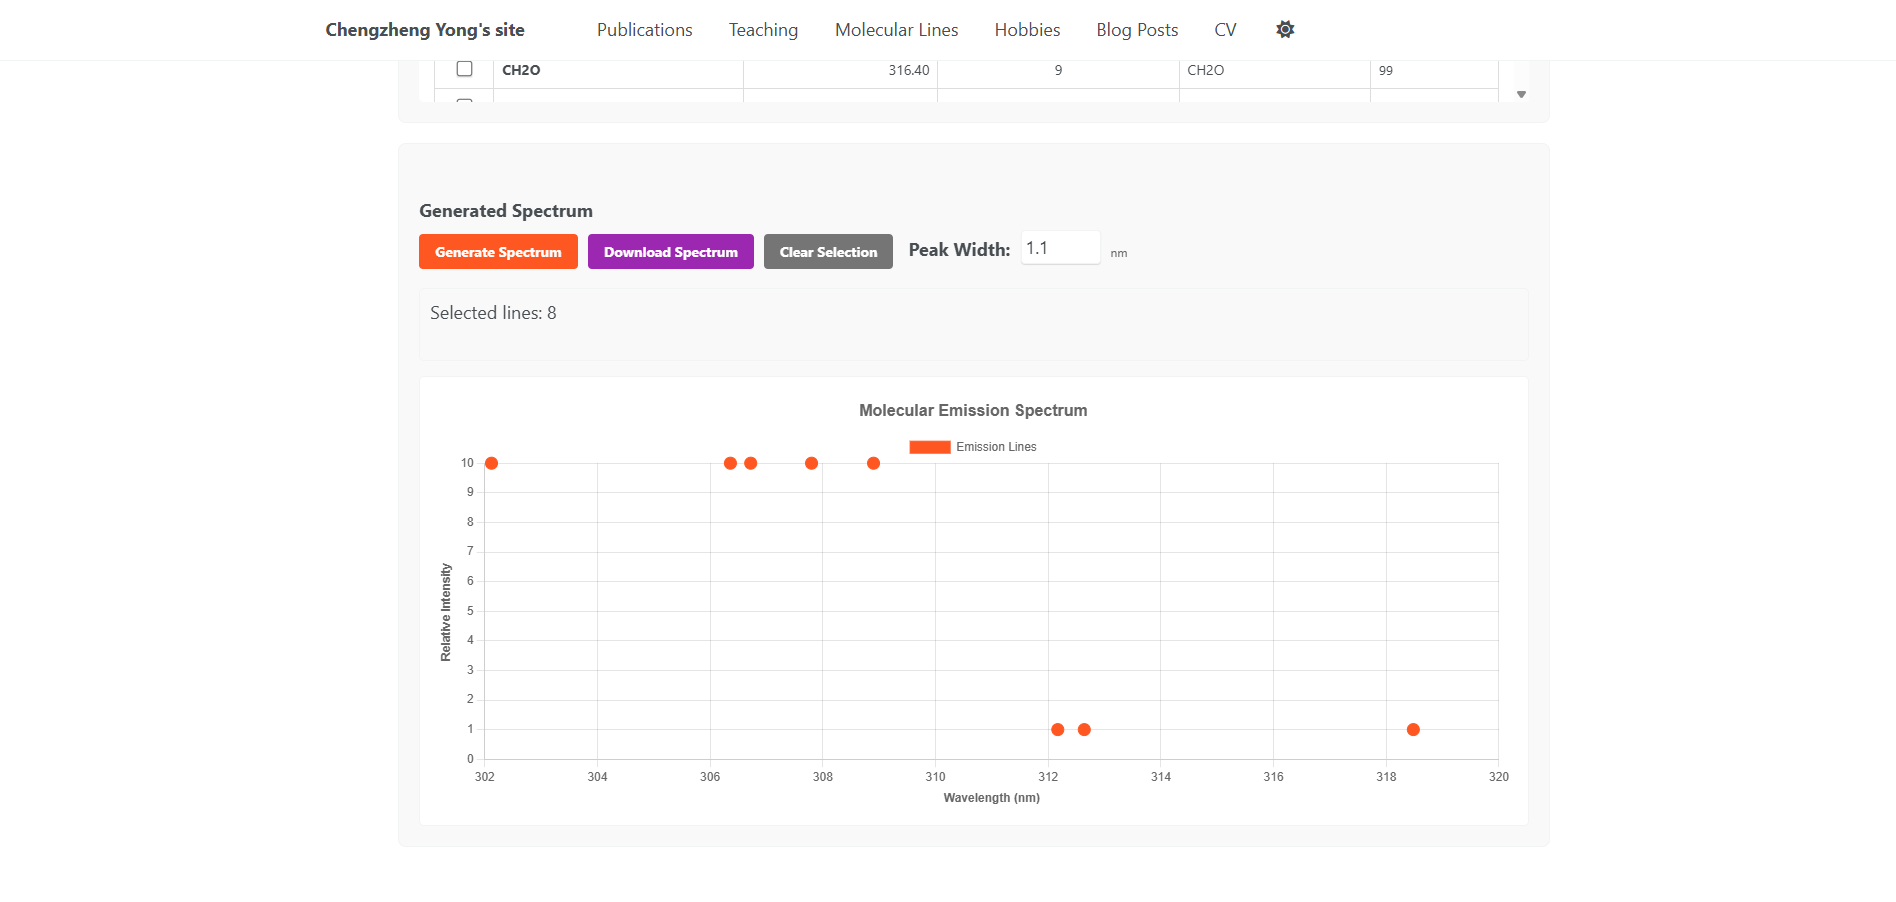
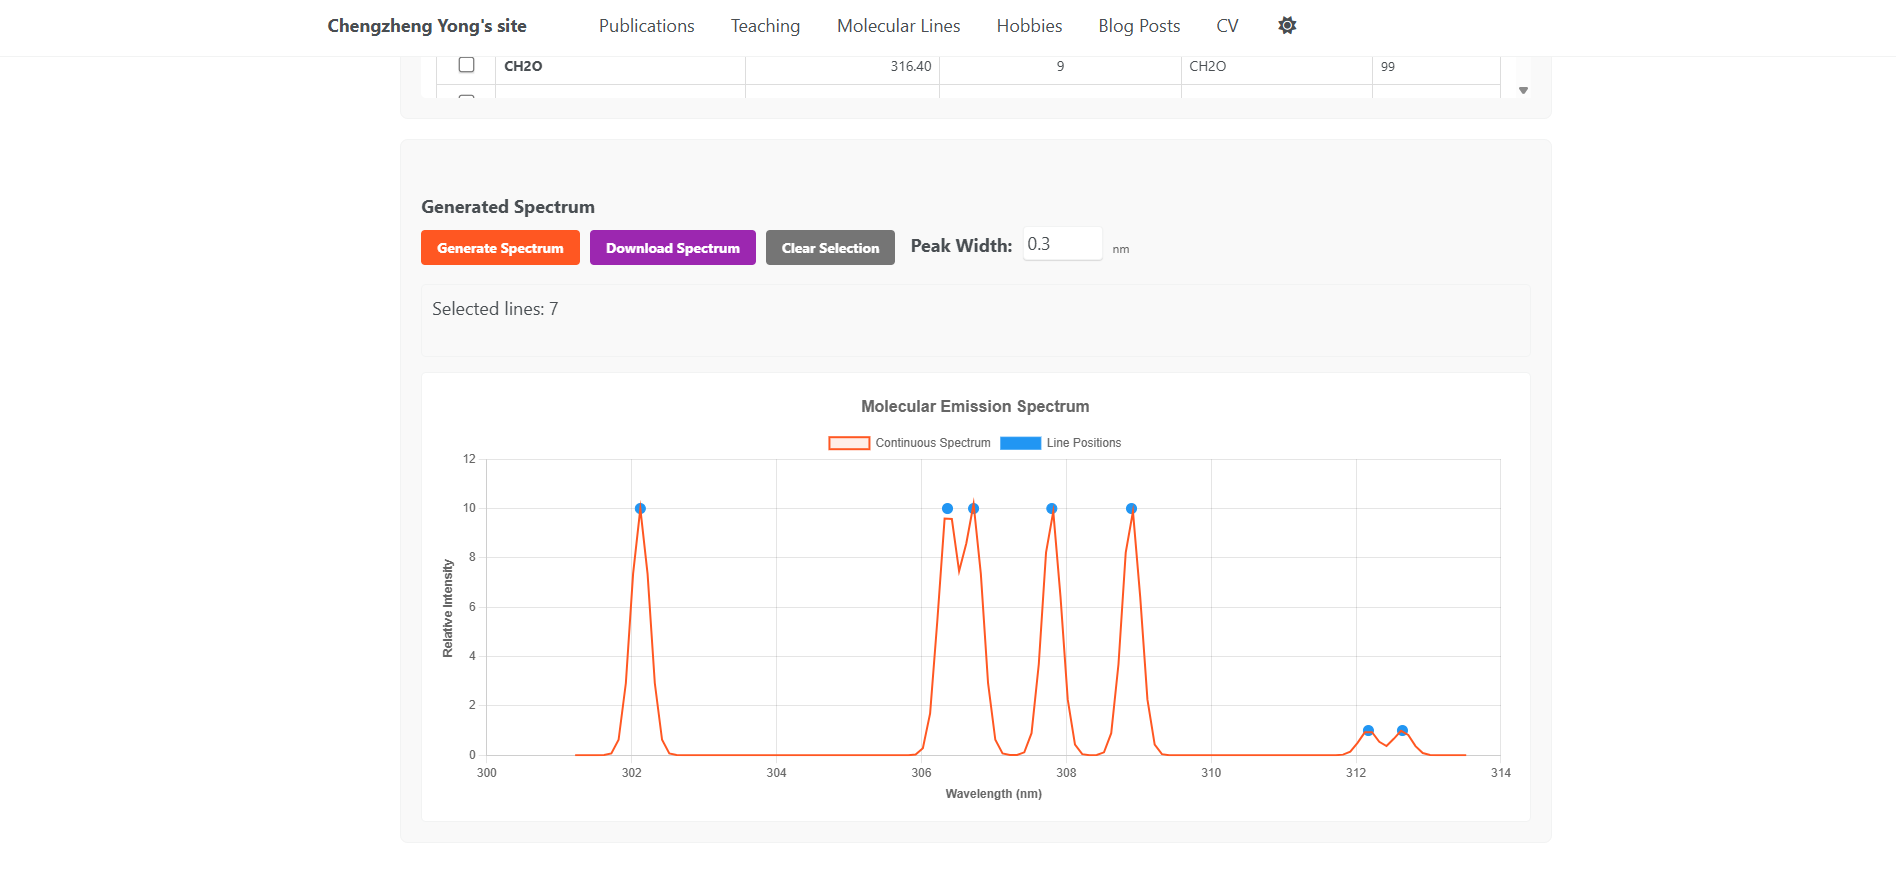
debug spectrum generation: resolution and legend enhance

diff --git a/assets/js/molecular-lines.js b/assets/js/molecular-lines.js
@@ -562,8 +562,8 @@ function generateContinuousSpectrum(lines, peakWidth) {
     
     console.log('Wavelength range:', minWave, 'to', maxWave);
     
-    // Generate fine wavelength grid (0.1 nm resolution for faster generation)
-    const resolution = 0.1;
+    // Generate fine wavelength grid (0.01 nm resolution for high quality)
+    const resolution = 0.01;
     const numPoints = Math.floor((maxWave - minWave) / resolution);
     const spectrumData = [];
     
@@ -631,7 +631,7 @@ function createSpectrumChart(continuousData, discreteLines) {
         if (continuousData && continuousData.length > 0) {
             console.log('Adding continuous spectrum dataset with', continuousData.length, 'points');
             datasets.push({
-                label: 'Continuous Spectrum',
+                label: 'Example Spectrum',
                 data: continuousData,
                 backgroundColor: 'rgba(255, 87, 34, 0.1)',
                 borderColor: '#FF5722',
@@ -647,21 +647,7 @@ function createSpectrumChart(continuousData, discreteLines) {
             console.warn('No continuous data to display');
         }
         
-        // Add discrete lines as markers
-        if (discreteLines && discreteLines.length > 0) {
-            console.log('Adding discrete lines dataset with', discreteLines.length, 'points');
-            datasets.push({
-                label: 'Line Positions',
-                data: discreteLines,
-                backgroundColor: '#2196F3',
-                borderColor: '#2196F3',
-                pointRadius: 5,
-                pointHoverRadius: 7,
-                showLine: false,
-                pointStyle: 'circle',
-                type: 'scatter'
-            });
-        }
+        // Remove discrete line markers as requested by user
         
         console.log('Final datasets:', datasets);
         
@@ -704,7 +690,7 @@ function createSpectrumChart(continuousData, discreteLines) {
                         }
                     },
                     legend: {
-                        display: true
+                        display: false
                     }
                 },
                 scales: {
